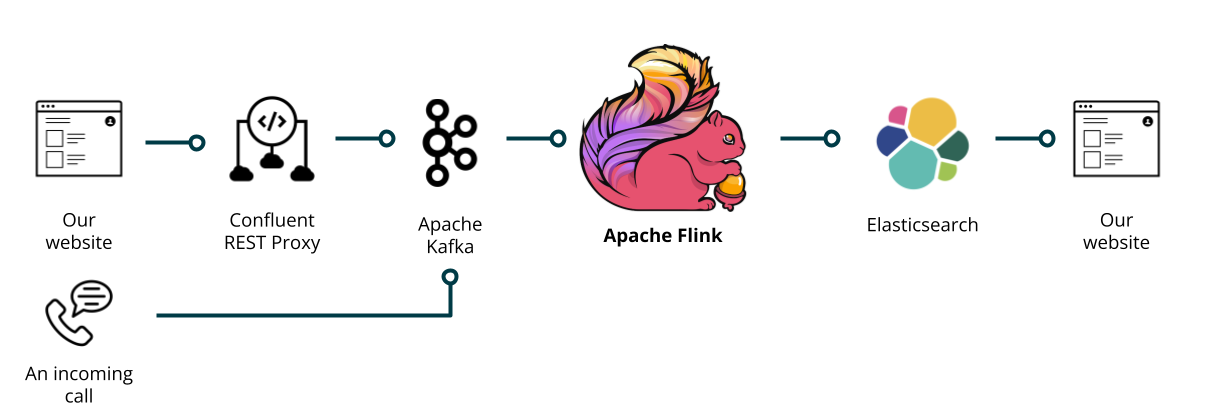
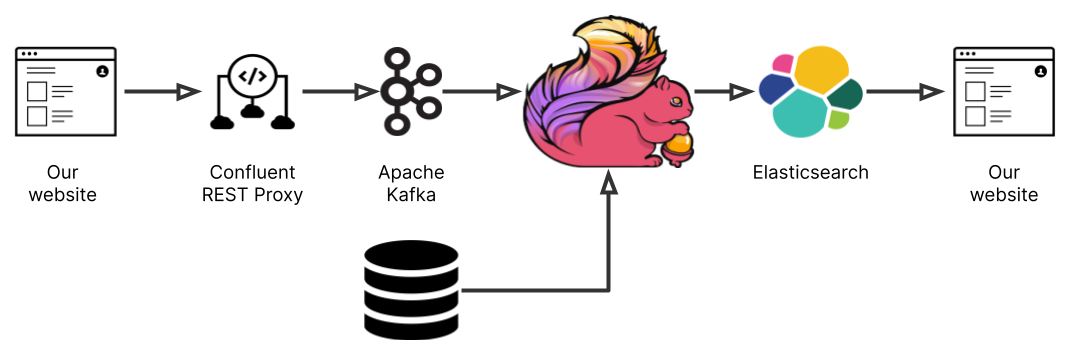
Minor text fixes and changes to architecture overview (#54)

diff --git a/README.md b/README.md
@@ -1,6 +1,9 @@
-# Only SQL: Empower data analysts end-to-end with Flink SQL
+# Conference usage
 
-This demo is used by Martijn Visser in his [Flink Forward talk 'Only SQL: Empower data analysts end-to-end with Flink SQL'](https://www.flink-forward.org/global-2021/conference-program#only-sql--empower-data-analysts-end-to-end-with-flink-sql)
+This demo is used by Martijn Visser in the following conference talks:
+
+* [Flink Forward talk 'Only SQL: Empower data analysts end-to-end with Flink SQL'](https://www.flink-forward.org/global-2021/conference-program#only-sql--empower-data-analysts-end-to-end-with-flink-sql) - [Recording](https://www.youtube.com/watch?v=KvaDe7QCwBQ) - [Demo version](https://github.com/MartijnVisser/flink-only-sql/releases/tag/v1.0) 
+* [Uptime talk 'Only SQL'](https://uptime.aiven.io/session/325604) - [Demo version](https://github.com/MartijnVisser/flink-only-sql/releases/tag/v2.0)
 
 [![Twitter Follow](https://img.shields.io/twitter/follow/MartijnVisser82?style=social&logo=twitter)](https://twitter.com/MartijnVisser82) [![GitHub Follow](https://img.shields.io/github/followers/MartijnVisser?style=social&logo=github)](https://github.com/MartijnVisser)
 
